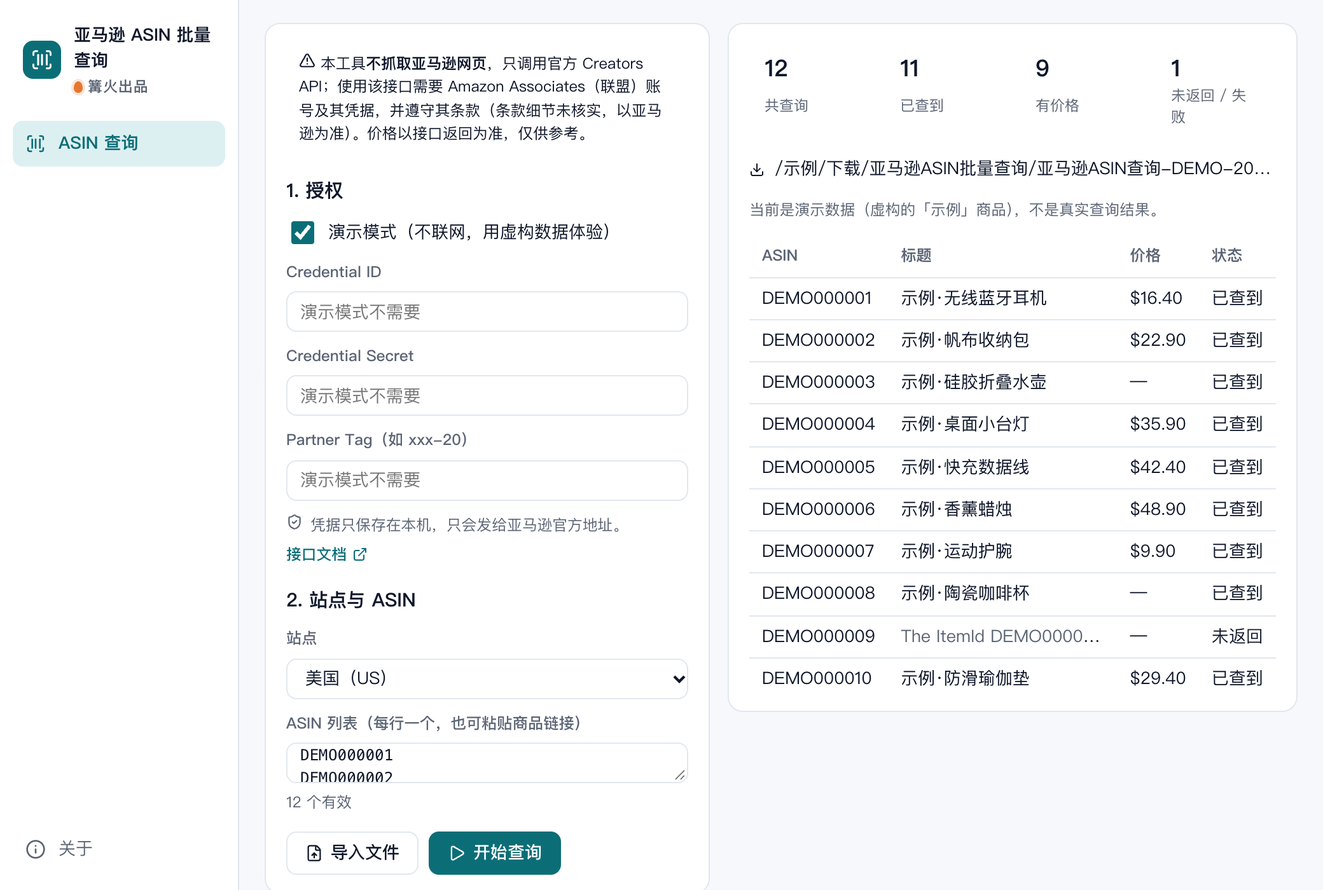
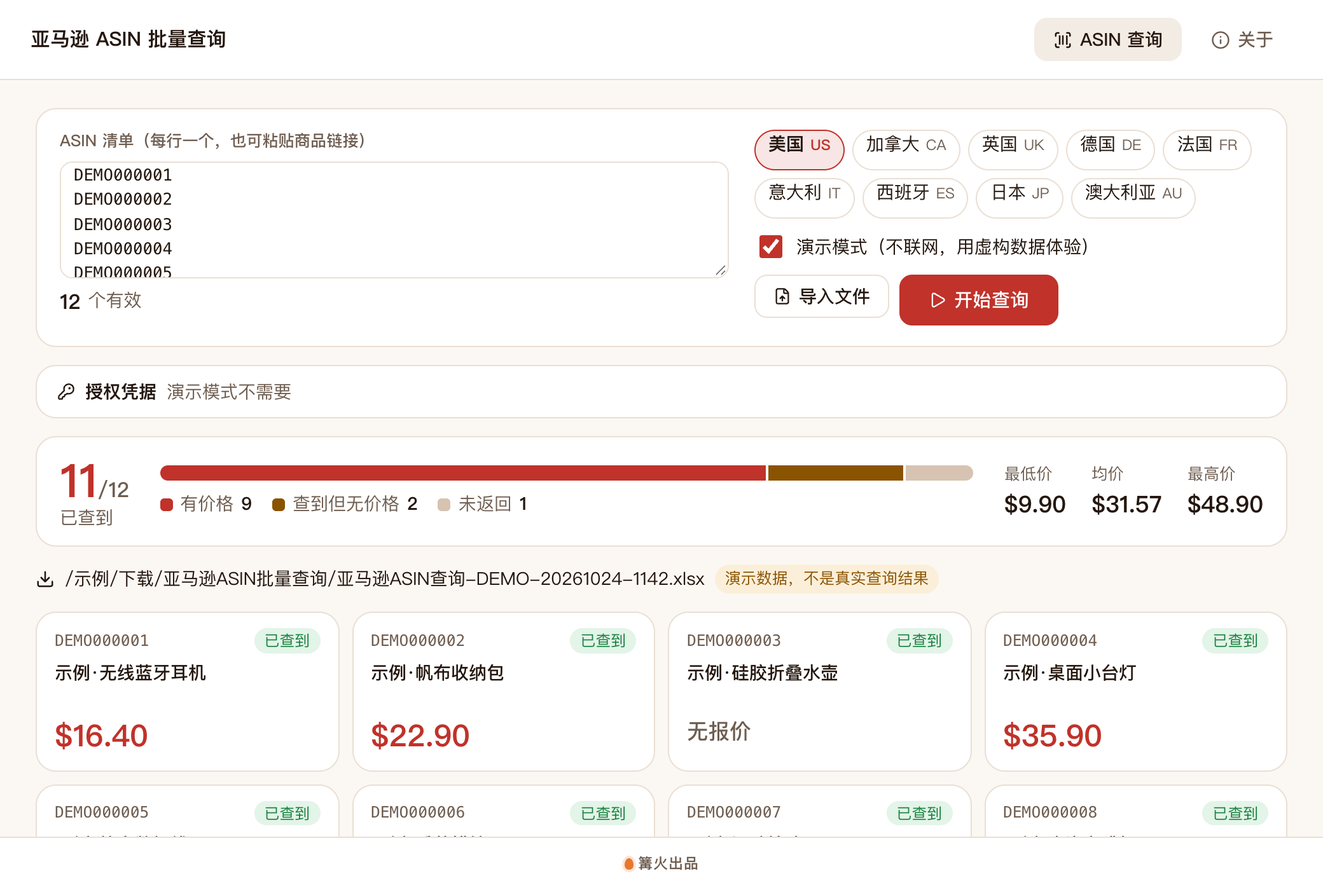
打磨：价格卡片墙与查询台，全中文界面，升至 0.2.0

diff --git a/src/tool/Main.tsx b/src/tool/Main.tsx
@@ -1,6 +1,6 @@
 // 主界面：左侧填授权、站点和 ASIN，右侧显示进度、汇总和结果。
 import { useEffect, useMemo, useRef, useState } from 'react';
-import { Download, ExternalLink, FileUp, FolderOpen, Play, ShieldCheck, Square, TriangleAlert } from 'lucide-react';
+import { Download, ExternalLink, FileUp, FolderOpen, KeyRound, Play, ShieldCheck, Square, TriangleAlert } from 'lucide-react';
 import type { CustomTool } from '../kit/types';
 import { defaultOutputDir, httpFetch, openLink, pickFiles, reveal } from '../kit/platform';
 import { useDroppedFiles } from '../kit/parts';
@@ -16,6 +16,8 @@ import './tool.css';
 
 type Ctx = Parameters<CustomTool['Main']>[0]['ctx'];
 const DOCS = 'https://affiliate-program.amazon.com/creatorsapi/docs/en-us/get-started/using-curl';
+// check-zh: 忽略（ASIN 格式示例，用来示范 10 位编号写法）
+const ASIN_HINT = '每行一个 ASIN，例如：\nB08N5WRWNW\nB07XJ8C8F5';
 const errText = (e: unknown) => (e instanceof Error ? e.message : String(e));
 const realFetcher: Fetcher = (url, init) => httpFetch(url, init) as ReturnType<Fetcher>;
 
@@ -77,75 +79,103 @@ export function Main({ ctx }: { ctx?: Ctx }) {
         value={prefs.demo ? '' : cred[key]} placeholder={prefs.demo ? '演示模式不需要' : secret && cred[key] ? maskSecret(cred[key]) : ''} onChange={(e) => setCred({ ...cred, [key]: e.target.value })} />
     </div>
   );
-  const show = out?.rows.slice(0, 50) ?? [];
+  const show = out?.rows.slice(0, 48) ?? [];
+  const prices = (out?.rows ?? []).map((r) => (r.item?.price ? Number(r.item.price) : NaN)).filter((n) => !Number.isNaN(n));
+  const cur = out?.rows.find((r) => r.item?.price)?.item?.currency ?? '';
+  const sameCur = (out?.rows ?? []).every((r) => !r.item?.price || r.item.currency === cur);
+  const money = (n: number) => `${cur === 'USD' || !cur ? '$' : `${cur} `}${n.toFixed(2)}`;
+  const seg = out ? [
+    { k: 'ok', n: out.sum.priced, label: '有价格' },
+    { k: 'nop', n: out.sum.ok - out.sum.priced, label: '查到但无价格' },
+    { k: 'miss', n: out.sum.missing, label: '未返回' },
+    { k: 'fail', n: out.sum.failed, label: '失败' },
+  ] : [];
 
   return (
     <div className="al-root">
-      <section className="k-panel al-side">
-        <p className="al-risk"><TriangleAlert size={13} /> 本工具<b>不抓取亚马逊网页</b>，只调用官方 Creators API；使用该接口需要 Amazon Associates（联盟）账号及其凭据，并遵守其条款（条款细节未核实，以亚马逊为准）。价格以接口返回为准，仅供参考。</p>
-        <h3 className="k-section">1. 授权</h3>
-        <label className="k-toggle"><input type="checkbox" checked={prefs.demo} disabled={busy} onChange={(e) => setP({ demo: e.target.checked })} /><span>演示模式（不联网，用虚构数据体验）</span></label>
-        {credInput('clientId', 'Credential ID', false)}
-        {credInput('clientSecret', 'Credential Secret', true)}
-        {credInput('partnerTag', 'Partner Tag（如 xxx-20）', false)}
-        <p className="k-muted al-note"><ShieldCheck size={13} /> 凭据只保存在本机，只会发给亚马逊官方地址。<button className="k-link" onClick={() => void openLink(DOCS)}>接口文档<ExternalLink size={12} /></button></p>
-
-        <h3 className="k-section">2. 站点与 ASIN</h3>
-        <div className="k-field">
-          <label className="k-label" htmlFor="al-mp">站点</label>
-          <select id="al-mp" className="k-input" value={prefs.market} disabled={busy} onChange={(e) => setP({ market: e.target.value })}>
-            {MARKETPLACES.map((m) => <option key={m.code} value={m.code}>{m.name}（{m.code}）</option>)}
-          </select>
-        </div>
-        <div className="k-field">
-          <label className="k-label" htmlFor="al-asins">ASIN 列表（每行一个，也可粘贴商品链接）</label>
-          <textarea id="al-asins" className="k-input al-asins" rows={7} disabled={busy} value={prefs.asins} placeholder={'每行一个 ASIN，例如：\nXXXXXXXXXX'} onChange={(e) => setP({ asins: e.target.value })} />
-          <p className="k-muted al-note">
-            {parsed.asins.length} 个有效{parsed.duplicates ? `，去重 ${parsed.duplicates}` : ''}{parsed.invalid.length ? `，${parsed.invalid.length} 个格式不对（已忽略）` : ''}
-            {hover && ' · 松开即可导入'}
+      <section className="al-desk">
+        <div className="al-desk-in">
+          <label className="k-label" htmlFor="al-asins">ASIN 清单（每行一个，也可粘贴商品链接）</label>
+          <textarea id="al-asins" className="k-input al-asins" rows={4} disabled={busy} value={prefs.asins} placeholder={ASIN_HINT} onChange={(e) => setP({ asins: e.target.value })} />
+          <p className="al-count">
+            <b className="k-num">{parsed.asins.length}</b> 个有效{parsed.duplicates ? <span className="al-tag">去重 {parsed.duplicates}</span> : null}{parsed.invalid.length ? <span className="al-tag warn">{parsed.invalid.length} 个格式不对（已忽略）</span> : null}
+            {hover && <span className="al-tag on">松开即可导入</span>}
           </p>
         </div>
-        <div className="al-actions">
-          <button className="k-btn" disabled={busy || !ctx} onClick={() => void pickFiles(['xlsx', 'csv', 'txt'], 'ASIN 列表').then((p) => { if (p.length) void importFiles(p); })}><FileUp size={14} />导入文件</button>
-          {busy
-            ? <button className="k-btn" onClick={() => abort.current?.abort()}><Square size={14} />停止</button>
-            : <button className="k-btn primary" onClick={() => void start()}><Play size={14} />开始查询</button>}
+        <div className="al-desk-ctl">
+          <div className="al-mk" role="group" aria-label="站点">
+            {MARKETPLACES.map((m) => <button key={m.code} type="button" disabled={busy} className={`al-mk-b${prefs.market === m.code ? ' on' : ''}`} aria-pressed={prefs.market === m.code} onClick={() => setP({ market: m.code })}>{m.name}<i>{m.code}</i></button>)}
+          </div>
+          <label className="k-toggle"><input type="checkbox" checked={prefs.demo} disabled={busy} onChange={(e) => setP({ demo: e.target.checked })} /><span>演示模式（不联网，用虚构数据体验）</span></label>
+          <div className="al-actions">
+            <button className="k-btn" disabled={busy || !ctx} onClick={() => void pickFiles(['xlsx', 'csv', 'txt'], 'ASIN 列表').then((p) => { if (p.length) void importFiles(p); })}><FileUp size={14} />导入文件</button>
+            {busy
+              ? <button className="k-btn big" onClick={() => abort.current?.abort()}><Square size={14} />停止</button>
+              : <button className="k-btn primary big" onClick={() => void start()}><Play size={14} />开始查询</button>}
+          </div>
         </div>
       </section>
 
-      <section className="k-panel al-main">
-        {error && <div className="k-notice err" role="alert">{error}</div>}
-        {notice && !error && <div className="k-notice ok">{notice}</div>}
-        {busy && <div className="al-busy"><span className="k-spin" /> 正在查询：{prog.done} / {prog.total}</div>}
-        {!busy && !out && !error && <div className="k-empty"><p>粘贴或导入 ASIN，填好授权后点「开始查询」。</p><p className="k-muted">没有凭据也可以先打开「演示模式」看完整流程。</p></div>}
-        {out && (
-          <>
-            <div className="al-sum">
-              <div><b className="k-num">{out.sum.total}</b><span className="k-muted">共查询</span></div>
-              <div><b className="k-num">{out.sum.ok}</b><span className="k-muted">已查到</span></div>
-              <div><b className="k-num">{out.sum.priced}</b><span className="k-muted">有价格</span></div>
-              <div><b className="k-num">{out.sum.missing + out.sum.failed}</b><span className="k-muted">未返回 / 失败</span></div>
+      <details className="al-cred" open={!prefs.demo}>
+        <summary><KeyRound size={14} />授权凭据<span className="k-muted">{prefs.demo ? '演示模式不需要' : '只保存在本机，只发给亚马逊官方地址'}</span></summary>
+        <div className="al-cred-grid">
+          {credInput('clientId', '凭据编号', false)}
+          {credInput('clientSecret', '凭据密钥', true)}
+          {credInput('partnerTag', '联盟追踪标识（形如 店名-20）', false)}
+        </div>
+        <p className="k-muted al-note"><ShieldCheck size={13} /> 凭据不写日志。<button className="k-link" onClick={() => void openLink(DOCS)}>官方接口文档<ExternalLink size={12} /></button></p>
+      </details>
+
+      {error && <div className="k-notice err" role="alert">{error}</div>}
+      {notice && !error && <div className="k-notice ok">{notice}</div>}
+      {busy && <div className="al-busy"><span className="k-spin" /> 正在查询：{prog.done} / {prog.total}<span className="al-bar"><i style={{ width: `${prog.total ? (prog.done / prog.total) * 100 : 0}%` }} /></span></div>}
+
+      {!busy && !out && !error && (
+        <div className="al-empty">
+          <svg viewBox="0 0 360 96" aria-hidden="true">
+            <g className="al-s-a">{[0, 1, 2, 3].map((i) => <rect key={i} x="8" y={8 + i * 21} width="96" height="15" rx="4" />)}</g>
+            <path className="al-s-ar" d="M122 48h56m-9-9 9 9-9 9" />
+            <g className="al-s-b">{[0, 1, 2].map((i) => <g key={i}><rect x={196 + i * 54} y="14" width="46" height="68" rx="7" /><rect className="al-s-p" x={202 + i * 54} y="58" width="26" height="8" rx="3" /></g>)}</g>
+          </svg>
+          <div><b>一批 ASIN，变成标题和价格</b><p className="k-muted">粘贴 ASIN 或商品链接，选站点，点「开始查询」。没有凭据可先开演示模式看完整流程。</p></div>
+        </div>
+      )}
+
+      {out && (
+        <>
+          <div className="al-sum">
+            <div className="al-hit"><b className="k-num">{out.sum.ok}<small>/{out.sum.total}</small></b><span>已查到</span></div>
+            <div className="al-spread">
+              <div className="al-seg" role="img" aria-label={seg.map((s) => `${s.label} ${s.n}`).join('，')}>{seg.map((s) => s.n > 0 && <i key={s.k} className={`s-${s.k}`} style={{ flex: s.n }} />)}</div>
+              <ul className="al-legend">{seg.filter((s) => s.n > 0).map((s) => <li key={s.k}><i className={`s-${s.k}`} />{s.label} <b className="k-num">{s.n}</b></li>)}</ul>
             </div>
-            <div className="al-file">
-              <Download size={15} /> <span className="k-ellipsis" title={out.path}>{out.path}</span>
-              {!preview && <button className="k-link" onClick={() => void reveal(out.path)}><FolderOpen size={14} />在文件夹中显示</button>}
-            </div>
-            {prefs.demo && <p className="k-muted al-note">当前是演示数据（虚构的「示例」商品），不是真实查询结果。</p>}
-            <div className="k-table-wrap k-scroll al-table">
-              <table className="k-table">
-                <thead><tr><th>ASIN</th><th>标题</th><th>价格</th><th>状态</th></tr></thead>
-                <tbody>{show.map((r) => (
-                  <tr key={r.asin}>
-                    <td className="k-num">{r.asin}</td>
-                    <td><div className="al-title" title={r.item?.title}>{r.item?.title || <span className="k-muted">{r.note}</span>}</div></td>
-                    <td className="k-num">{r.item?.priceText || (r.item?.price ? `${r.item.price} ${r.item.currency}` : '—')}</td>
-                    <td>{r.status}</td>
-                  </tr>))}</tbody>
-              </table>
-            </div>
-          </>
-        )}
-      </section>
+            {prices.length > 0 && sameCur && (
+              <dl className="al-range"><div><dt>最低价</dt><dd className="k-num">{money(Math.min(...prices))}</dd></div><div><dt>均价</dt><dd className="k-num">{money(prices.reduce((a, b) => a + b, 0) / prices.length)}</dd></div><div><dt>最高价</dt><dd className="k-num">{money(Math.max(...prices))}</dd></div></dl>
+            )}
+          </div>
+          <div className="al-file">
+            <Download size={15} /> <span className="k-ellipsis" title={out.path}>{out.path}</span>
+            {!preview && <button className="k-link" onClick={() => void reveal(out.path)}><FolderOpen size={14} />在文件夹中显示</button>}
+            {prefs.demo && <span className="al-tag warn">演示数据，不是真实查询结果</span>}
+          </div>
+          <ul className="al-grid">
+            {show.map((r) => {
+              const priced = r.item?.priceText || (r.item?.price ? `${r.item.price} ${r.item.currency}` : '');
+              return (
+                <li key={r.asin} className={`al-card${r.item ? '' : ' miss'}`}>
+                  <div className="al-card-hd"><code>{r.asin}</code><span className={`al-st ${r.status === '已查到' ? 'ok' : 'bad'}`}>{r.status}</span></div>
+                  {r.item ? <div className="al-card-t" title={r.item.title}>{r.item.title}</div> : <div className="al-card-t k-muted">{zhNote(r.note)}</div>}
+                  <div className={`al-price k-num${priced ? '' : ' none'}`}>{priced || (r.item ? '无报价' : '—')}</div>
+                </li>
+              );
+            })}
+          </ul>
+        </>
+      )}
+      <p className="al-risk"><TriangleAlert size={13} /> 本工具<b>不抓取亚马逊网页</b>，只调用官方创作者接口；使用该接口需要亚马逊联盟账号及其凭据，并遵守其条款（条款细节未核实，以亚马逊为准）。价格以接口返回为准，仅供参考。</p>
     </div>
   );
 }
+
+/** 接口返回的说明若是外文，界面上换成中文提示（原文仍写在导出的 Excel 里） */
+const zhNote = (s: string) => (/[\u4e00-\u9fa5]/.test(s) ? s : '接口没有返回这个 ASIN（原因见导出文件）');

diff --git a/src/tool/tool.css b/src/tool/tool.css
@@ -1,17 +1,69 @@
-/* 亚马逊 ASIN 批量查询：只用 kit.css 的变量，类名以 al- 开头。 */
-.al-root { flex: 1; min-height: 0; display: flex; flex-wrap: wrap; gap: 14px; align-items: flex-start; }
-.al-side { flex: 0 1 350px; min-width: 280px; padding: 14px 16px; display: grid; gap: 10px; }
-.al-main { flex: 1 1 400px; min-width: 0; padding: 14px 16px; display: grid; gap: 12px; align-content: start; min-height: 320px; }
-.al-side .k-section { margin: 6px 0 0; }
-.al-note { display: flex; align-items: flex-start; gap: 6px; flex-wrap: wrap; font-size: .88em; margin: 0; }
-.al-risk { font-size: .88em; margin: 0; padding: 8px 10px; border-radius: var(--radius); background: var(--side); line-height: 1.55; }
-.al-asins { font-family: ui-monospace, Menlo, Consolas, monospace; font-size: .9em; resize: vertical; }
-.al-actions { display: flex; gap: 8px; flex-wrap: wrap; margin-top: 4px; }
-.al-busy { display: flex; align-items: center; gap: 8px; }
-.al-sum { display: grid; grid-template-columns: repeat(auto-fit, minmax(78px, 1fr)); gap: 12px; }
-.al-sum > div { display: grid; gap: 2px; padding: 10px 12px; border-radius: var(--radius); background: var(--side); }
-.al-sum b { font-size: 1.35em; line-height: 1.2; }
-.al-sum .k-muted { font-size: .85em; }
-.al-file { display: flex; align-items: center; gap: 8px; min-width: 0; }
-.al-table { max-height: 360px; }
-.al-title { width: 160px; overflow: hidden; text-overflow: ellipsis; white-space: nowrap; }
+/* 亚马逊 ASIN 批量查询：查询台 + 价格卡片墙。只用 kit.css 的变量，类名以 al- 开头。 */
+.al-root { display: grid; gap: 14px; align-content: start; min-width: 0; }
+.al-desk { display: grid; grid-template-columns: minmax(0, 1fr) minmax(280px, 400px); gap: 20px; padding: 16px 18px; background: var(--surface); border: 1px solid var(--line); border-radius: var(--radius-lg); }
+.al-desk-in { display: grid; gap: 6px; align-content: start; min-width: 0; }
+.al-asins { font-family: ui-monospace, Menlo, Consolas, monospace; font-size: .92em; resize: vertical; min-height: 92px; }
+.al-count { margin: 0; display: flex; align-items: center; gap: 6px; flex-wrap: wrap; color: var(--muted); }
+.al-count b { color: var(--ink); font-size: 1.15em; }
+.al-tag { font-size: .88em; padding: 2px 8px; border-radius: 999px; background: var(--chip); color: var(--muted); }
+.al-tag.warn { background: var(--warn-soft); color: var(--warn); }
+.al-tag.on { background: var(--primary-soft); color: var(--primary); }
+.al-desk-ctl { display: grid; gap: 10px; align-content: start; }
+.al-mk { display: flex; flex-wrap: wrap; gap: 6px; }
+.al-mk-b { display: inline-flex; align-items: baseline; gap: 5px; min-height: 32px; padding: 0 10px; border-radius: 999px; border: 1px solid var(--line); background: var(--surface); color: var(--ink); cursor: pointer; transition: background .18s var(--ease), border-color .18s var(--ease); }
+.al-mk-b i { font-style: normal; font-size: .82em; color: var(--muted); }
+.al-mk-b:hover:not(:disabled) { border-color: var(--line-strong); }
+.al-mk-b.on { border-color: var(--primary); background: var(--primary-soft); font-weight: 600; }
+.al-mk-b.on i { color: var(--primary); }
+.al-mk-b:disabled { opacity: .5; cursor: not-allowed; }
+.al-actions { display: flex; gap: 8px; flex-wrap: wrap; }
+.al-cred { border: 1px solid var(--line); border-radius: var(--radius-lg); background: var(--surface); padding: 0 16px; }
+.al-cred summary { display: flex; align-items: center; gap: 8px; min-height: 40px; cursor: pointer; font-weight: 600; }
+.al-cred summary .k-muted { font-weight: 400; }
+.al-cred-grid { display: grid; grid-template-columns: repeat(auto-fit, minmax(200px, 1fr)); gap: 12px; padding-top: 4px; }
+.al-note { display: flex; align-items: center; gap: 6px; flex-wrap: wrap; margin: 10px 0 12px; }
+.al-busy { display: flex; align-items: center; gap: 10px; }
+.al-bar { flex: 1; height: 6px; border-radius: 3px; background: var(--chip); overflow: hidden; max-width: 320px; }
+.al-bar i { display: block; height: 100%; background: var(--primary); transition: width .2s var(--ease); }
+.al-empty { display: flex; align-items: center; gap: 24px; padding: 20px 24px; border: 1px dashed var(--line-strong); border-radius: var(--radius-lg); flex-wrap: wrap; }
+.al-empty svg { width: 300px; max-width: 100%; flex: none; }
+.al-empty b { font-size: 1.2em; }
+.al-empty p { margin: 4px 0 0; max-width: 40ch; }
+.al-s-a rect { fill: var(--chip); stroke: var(--line-strong); }
+.al-s-ar { fill: none; stroke: var(--primary); stroke-width: 2.5; stroke-linecap: round; stroke-linejoin: round; }
+.al-s-b rect { fill: var(--surface); stroke: var(--line-strong); }
+.al-s-b rect.al-s-p { fill: var(--primary); stroke: none; }
+.al-sum { display: grid; grid-template-columns: auto minmax(180px, 1fr) auto; gap: 24px; align-items: center; padding: 14px 18px; background: var(--surface); border: 1px solid var(--line); border-radius: var(--radius-lg); }
+.al-hit { display: grid; line-height: 1.1; }
+.al-hit b { font-size: 2.6em; color: var(--primary); }
+.al-hit small { font-size: .45em; color: var(--muted); font-weight: 500; }
+.al-hit span { color: var(--muted); margin-top: 2px; }
+.al-spread { display: grid; gap: 8px; min-width: 0; }
+.al-seg { display: flex; height: 12px; border-radius: 6px; overflow: hidden; gap: 2px; }
+.al-seg i, .al-legend i { background: var(--primary); }
+.al-seg i.s-nop, .al-legend i.s-nop { background: var(--warn); }
+.al-seg i.s-miss, .al-legend i.s-miss { background: var(--line-strong); }
+.al-seg i.s-fail, .al-legend i.s-fail { background: var(--err); }
+.al-legend { display: flex; flex-wrap: wrap; gap: 4px 16px; list-style: none; margin: 0; padding: 0; color: var(--muted); }
+.al-legend li { display: inline-flex; align-items: center; gap: 6px; }
+.al-legend i { width: 10px; height: 10px; border-radius: 3px; }
+.al-legend b { color: var(--ink); }
+.al-range { display: flex; gap: 20px; margin: 0; }
+.al-range dt { color: var(--muted); font-size: .9em; }
+.al-range dd { margin: 0; font-size: 1.3em; font-weight: 700; }
+.al-file { display: flex; align-items: center; gap: 8px; min-width: 0; flex-wrap: wrap; }
+.al-grid { list-style: none; margin: 0; padding: 0; display: grid; grid-template-columns: repeat(auto-fill, minmax(210px, 1fr)); gap: 10px; }
+.al-card { display: grid; gap: 6px; align-content: start; padding: 12px 14px; background: var(--surface); border: 1px solid var(--line); border-radius: var(--radius-lg); transition: border-color .18s var(--ease); }
+.al-card:hover { border-color: var(--line-strong); }
+.al-card.miss { border-style: dashed; background: transparent; }
+.al-card-hd { display: flex; align-items: center; justify-content: space-between; gap: 8px; }
+.al-card-hd code { font-family: ui-monospace, Menlo, Consolas, monospace; font-size: .88em; color: var(--muted); }
+.al-st { font-size: .85em; padding: 1px 8px; border-radius: 999px; }
+.al-st.ok { background: var(--ok-soft); color: var(--ok); }
+.al-st.bad { background: var(--warn-soft); color: var(--warn); }
+.al-card-t { display: -webkit-box; -webkit-line-clamp: 2; -webkit-box-orient: vertical; overflow: hidden; min-height: 2.8em; line-height: 1.4; font-weight: 500; }
+.al-price { font-size: 1.7em; font-weight: 700; color: var(--primary); line-height: 1.2; }
+.al-price.none { color: var(--muted); font-weight: 500; font-size: 1.2em; }
+.al-risk { display: flex; gap: 6px; align-items: flex-start; margin: 0; font-size: .9em; color: var(--muted); line-height: 1.55; }
+.al-risk svg { flex: none; margin-top: 3px; }
+@media (max-width: 760px) { .al-desk, .al-sum { grid-template-columns: 1fr; } }

diff --git a/src/tool/core.ts b/src/tool/core.ts
@@ -184,9 +184,9 @@ export function explainError(status: number, body: string): string {
   let detail = '';
   try { const j = o(JSON.parse(body)); detail = s(j.message) || s(j.error_description) || s(j.error) || s(j.reason); } catch { /* 非 JSON */ }
   const tail = detail ? `（${detail.slice(0, 120)}）` : '';
-  if (status === 400) return `请求被拒绝（400）${tail}：检查 ASIN、站点和 Partner Tag 是否匹配`;
-  if (status === 401) return `凭据无效或已过期（401）${tail}：检查 Credential ID / Secret，以及凭据版本是否与站点区域一致`;
-  if (status === 403) return `没有权限（403）${tail}：Associates 账号可能不满足使用条件，或凭据未授权该站点`;
+  if (status === 400) return `请求被拒绝（400）${tail}：检查 ASIN、站点和联盟追踪标识是否匹配`;
+  if (status === 401) return `凭据无效或已过期（401）${tail}：检查凭据编号和凭据密钥，以及凭据版本是否与站点区域一致`;
+  if (status === 403) return `没有权限（403）${tail}：亚马逊联盟账号可能不满足使用条件，或凭据未授权该站点`;
   if (status === 429) return `请求太频繁（429）${tail}`;
   if (status >= 500) return `亚马逊服务暂时不可用（${status}）${tail}`;
   return `请求失败（${status}）${tail}`;

diff --git a/src/tool/flow.ts b/src/tool/flow.ts
@@ -12,7 +12,7 @@ export interface Io {
 export interface Outcome { path: string; rows: ResultRow[]; sum: ReturnType<typeof summary> }
 
 export function validate(cred: Credentials, market: string, asins: string[], demo: boolean): string | null {
-  if (!demo && !credReady(cred)) return '请先填写 Credential ID、Credential Secret 和 Partner Tag（见「怎么申请」）';
+  if (!demo && !credReady(cred)) return '请先填写凭据编号、凭据密钥和联盟追踪标识（申请方法见使用说明）';
   if (!marketplaceByCode(market)) return '请选择站点';
   if (!asins.length) return '请先输入或导入至少一个有效的 ASIN';
   return null;
@@ -29,7 +29,7 @@ export async function runLookup(a: {
   const sum = summary(rows);
   const info: (string | number)[][] = [
     ['查询时间', a.now.toLocaleString('zh-CN')], ['站点', `${m.name}（${m.code}，${m.domain}）`],
-    ['数据来源', '亚马逊官方 Creators API（GetItems），未抓取网页'],
+    ['数据来源', '亚马逊官方接口（商品查询），未抓取网页'],
     ['结果', `共 ${sum.total} 个，查到 ${sum.ok}，未返回 ${sum.missing}，失败 ${sum.failed}`],
     ['说明', '价格以接口返回为准，可能与页面实时价格有差异；价格字段结构未经官方文档核实'],
   ];

diff --git a/src/tool/demo.ts b/src/tool/demo.ts
@@ -11,7 +11,7 @@ export const demoFetcher: Fetcher = async (url, init) => {
   const errors: unknown[] = [];
   ids.forEach((id) => {
     const n = Number(id.replace(/\D/g, '')) || 0;
-    if (id.endsWith('9')) { errors.push({ code: 'ItemNotAccessible', message: `The ItemId ${id} provided in the request is invalid.` }); return; }
+    if (id.endsWith('9')) { errors.push({ code: 'ItemNotAccessible', message: `商品编号 ${id} 无法访问或不存在` }); return; }
     const priced = n % 5 !== 3;
     items.push({
       asin: id, detailPageURL: `https://www.amazon.com/dp/${id}`, itemInfo: { title: { displayValue: `示例·${NAMES[n % NAMES.length]}` } },

diff --git a/src/tool/flow.test.ts b/src/tool/flow.test.ts
@@ -31,7 +31,7 @@ const US = marketplaceByCode('US')!;
 
 describe('查询流程', () => {
   it('校验', () => {
-    expect(validate({ clientId: '', clientSecret: '', partnerTag: '' }, 'US', ['A'], false)).toContain('Credential ID');
+    expect(validate({ clientId: '', clientSecret: '', partnerTag: '' }, 'US', ['A'], false)).toContain('凭据编号');
     expect(validate(cred, 'XX', ['A'], false)).toContain('站点');
     expect(validate(cred, 'US', [], false)).toContain('ASIN');
     expect(validate({ clientId: '', clientSecret: '', partnerTag: '' }, 'US', ['A'], true)).toBeNull();

diff --git a/src/tool/index.ts b/src/tool/index.ts
@@ -7,7 +7,7 @@ import { Main } from './Main';
 const tool: CustomTool = {
   id: 'e19',
   name: '亚马逊 ASIN 批量查询',
-  tagline: '粘贴或导入一批 ASIN，通过亚马逊官方 Creators API 批量查标题、价格、主图，导出 Excel。',
+  tagline: '粘贴或导入一批 ASIN，通过亚马逊官方接口批量查标题、价格、主图，导出 Excel。',
   icon: ScanBarcode,
   category: '电商运营',
   type: 'data',

diff --git a/README.md b/README.md
@@ -59,7 +59,7 @@ Creators API 用 OAuth 2.0（client_credentials），需要三样东西（官方
 1. 打开工具，保持勾选「演示模式」，点「开始查询」（ASIN 列表为空时自动用 12 个演示 ASIN）。应得到：共查询 12、已查到 11、有价格 9、未返回/失败 1（DEMO000009 为「未返回」）；生成 `亚马逊ASIN查询-DEMO-…xlsx`，工作表「查询结果」12 行加表头、「说明」一张，首行加粗冻结。
 2. 点「导入文件」选 `samples/asin-list.csv`，列表出现 4 个有效 ASIN（DEMO000001、2、3、9），`abc` 与表头被忽略；再点「开始查询」，得到 4 行。
 3. 清空列表，打开 `samples/asin-links.txt` 的内容粘贴进去（或导入），应识别出 DEMO000004、DEMO000005 两个。
-4. 取消演示模式、不填凭据点「开始查询」，应提示「请先填写 Credential ID、Credential Secret 和 Partner Tag」，不发出任何请求。
+4. 取消演示模式、不填凭据点「开始查询」，应提示「请先填写凭据编号、凭据密钥和联盟追踪标识」，不发出任何请求。
 5. 自动化验收：`pnpm test`，22 个用例覆盖 ASIN 解析、请求体、分批、令牌复用、429 退避、401、单批失败、停止、Excel 读回。
 6. 真实账号验收（需要你自己的凭据，作者未做）：用 3～5 个已知 ASIN 查询，对照亚马逊页面核对标题与价格。
 

diff --git a/CHANGELOG.md b/CHANGELOG.md
@@ -1,5 +1,12 @@
 # 更新记录
 
+## 0.2.0
+
+- 界面重做：顶部「查询台」（ASIN 清单 + 站点标签 + 演示开关），授权凭据收进折叠区。
+- 结果改为价格卡片墙，顶部显示已查到比例、构成条和最低价 / 均价 / 最高价。
+- 新增空状态示意图；主色改为红色，换用暖色卡片布局。
+- 界面文字全部中文化（凭据、联盟追踪标识等），接口返回的外文说明在界面换成中文提示。
+
 ## 0.1.0
 
 - 首个版本。
